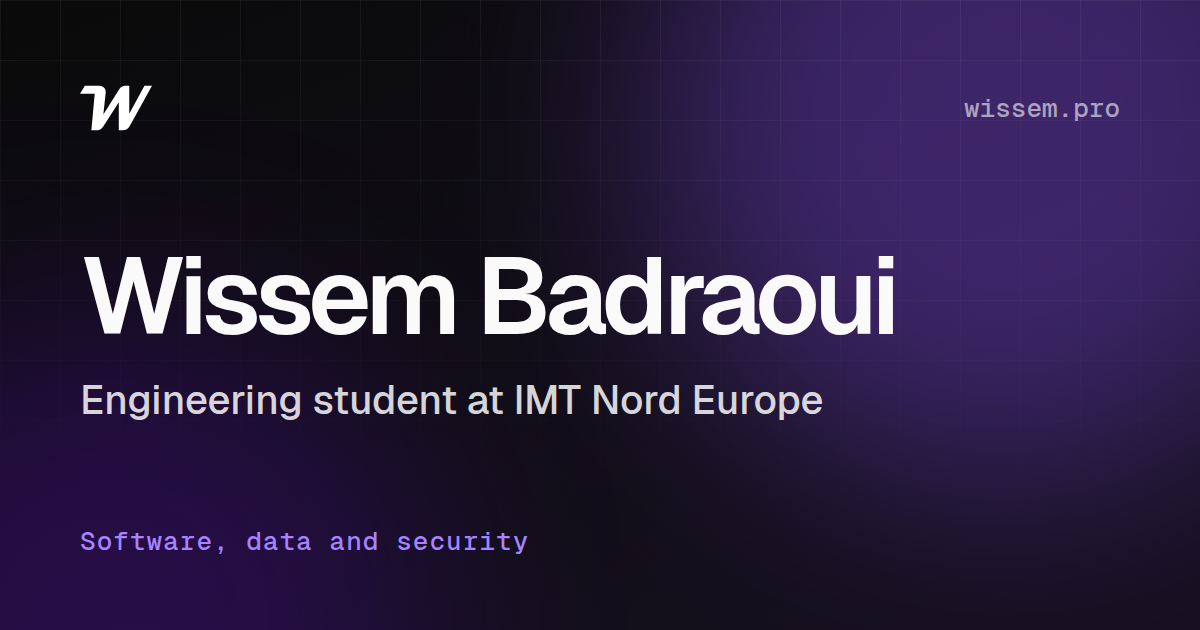
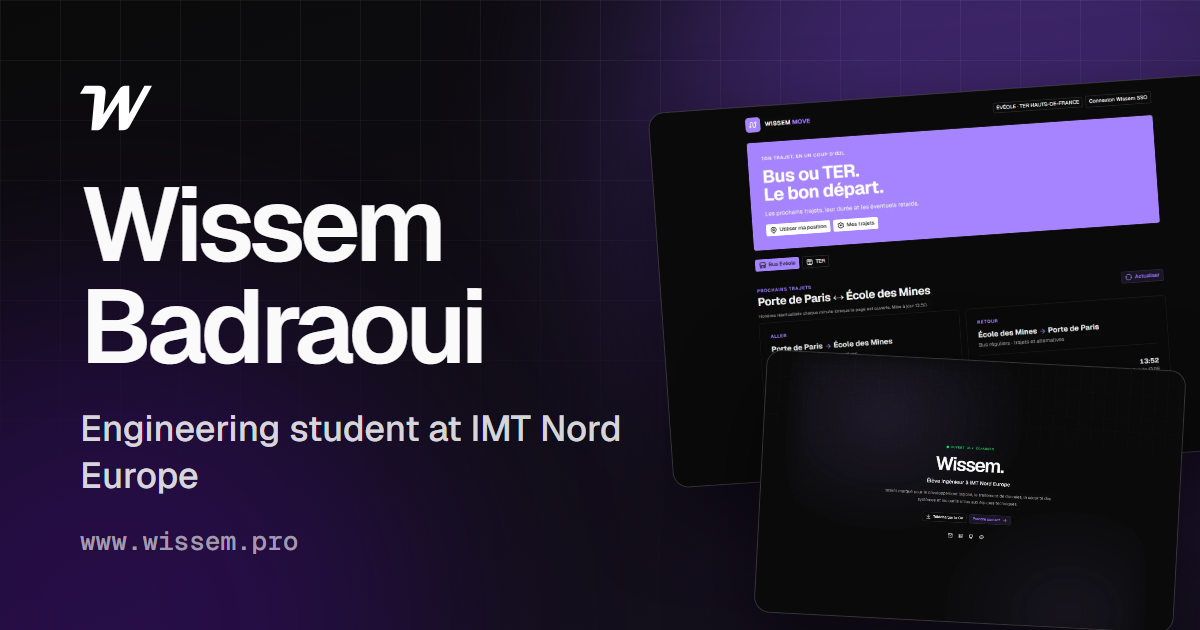
feat: new sharing images with project screenshots and shorter resume copy
Cards with project screenshots and the address, versioned image URLs, image size in the Open Graph tags, shorter resume page copy.

diff --git a/scripts/og.ts b/scripts/og.ts
@@ -27,6 +27,8 @@ function template(locale: keyof typeof contentByLocale) {
   const sans = fontUrl('@fontsource-variable/geist/files/geist-latin-wght-normal.woff2')
   const mono = fontUrl('@fontsource-variable/geist-mono/files/geist-mono-latin-wght-normal.woff2')
   const logo = pathToFileURL(fileURLToPath(new URL('Logo_White.svg', OUTPUT_DIR))).href
+  const shot = (name: string) =>
+    pathToFileURL(fileURLToPath(new URL(`projects/${name}.webp`, OUTPUT_DIR))).href
   return `<!doctype html>
 <html lang="${locale}">
 <meta charset="utf-8">
@@ -59,23 +61,35 @@ function template(locale: keyof typeof contentByLocale) {
     background-size: 60px 60px;
     mask-image: linear-gradient(to bottom, black, transparent 85%);
   }
-  .top, .bottom { position: relative; display: flex; align-items: center; justify-content: space-between; }
+  .text { position: relative; width: 600px; }
   .logo { width: 72px; height: 72px; }
   .url { font: 500 26px "Geist Mono", monospace; color: rgba(250, 250, 250, 0.6); }
-  h1 { position: relative; font-size: 108px; font-weight: 600; letter-spacing: -0.05em; line-height: 1; }
-  .status { position: relative; margin-top: 24px; font-size: 40px; font-weight: 500; color: rgba(250, 250, 250, 0.86); }
-  .focus { font: 500 26px "Geist Mono", monospace; letter-spacing: 0.04em; color: #a684ff; }
+  h1 { font-size: 104px; font-weight: 600; letter-spacing: -0.05em; line-height: 0.98; }
+  .status { margin-top: 28px; font-size: 36px; font-weight: 500; color: rgba(250, 250, 250, 0.86); }
+  .shot {
+    position: absolute;
+    overflow: hidden;
+    border: 1px solid rgba(255, 255, 255, 0.18);
+    border-radius: 16px;
+    background: #0a0a0a;
+    box-shadow: 0 30px 80px rgba(0, 0, 0, 0.55);
+  }
+  .shot img { display: block; width: 100%; }
+  .shot--main { top: 92px; left: 660px; width: 600px; transform: rotate(-4deg); }
+  .shot--side { top: 360px; left: 760px; width: 420px; transform: rotate(3deg); }
 </style>
 <body>
   <div class="glow glow--a"></div>
   <div class="glow glow--b"></div>
   <div class="grid"></div>
-  <div class="top"><img class="logo" src="${logo}" alt=""><span class="url">wissem.pro</span></div>
-  <div>
-    <h1>Wissem Badraoui</h1>
+  <div class="shot shot--main"><img src="${shot('wissem-move')}" alt=""></div>
+  <div class="shot shot--side"><img src="${shot('portfolio')}" alt=""></div>
+  <div class="text"><img class="logo" src="${logo}" alt=""></div>
+  <div class="text">
+    <h1>Wissem<br>Badraoui</h1>
     <p class="status">${profile.status}</p>
   </div>
-  <div class="bottom"><span class="focus">${profile.focus.title}</span></div>
+  <div class="text"><span class="url">www.wissem.pro</span></div>
   <title>${meta.defaultTitle}</title>
 </body>
 </html>`

diff --git a/shared/content/fr.ts b/shared/content/fr.ts
@@ -232,15 +232,14 @@ export const fr = {
     started: 'Le téléchargement du CV a démarré.',
   },
   resumePage: {
-    intro:
-      'Une page, à jour, en français et en anglais. Le fichier est généré à chaque version à partir des sources publiées sur GitHub.',
+    intro: 'CV d’une page, en français et en anglais.',
     previewAlt: 'Aperçu de la première page du CV de Wissem Badraoui',
     downloadFr: 'Télécharger en français',
     downloadEn: 'Télécharger en anglais',
     versionLabel: 'Version',
     updatedLabel: 'Mis à jour le',
     contents: ['Formation', 'Expériences', 'Projets', 'Compétences'],
-    note: 'Cette version publique ne contient ni téléphone ni informations personnelles. Pour une candidature, je transmets la version complète sur demande.',
+    note: 'Version publique, sans téléphone ni coordonnées personnelles. Je transmets la version complète sur demande.',
     contactCta: 'Me contacter',
   },
   links: [

diff --git a/shared/content/en.ts b/shared/content/en.ts
@@ -235,15 +235,14 @@ export const en = {
     started: 'The resume download has started.',
   },
   resumePage: {
-    intro:
-      'One page, kept up to date, in French and English. The file is generated for every version from the sources published on GitHub.',
+    intro: 'One-page resume, in French and English.',
     previewAlt: 'Preview of the first page of the resume of Wissem Badraoui',
     downloadFr: 'Télécharger en français',
     downloadEn: 'Download in English',
     versionLabel: 'Version',
     updatedLabel: 'Updated on',
     contents: ['Education', 'Experience', 'Projects', 'Skills'],
-    note: 'This public version leaves out the phone number and personal details. For an application, I send the full version on request.',
+    note: 'Public version, without phone number or personal details. I can send the full version on request.',
     contactCta: 'Get in touch',
   },
   links: [

diff --git a/app/composables/useSiteSeo.ts b/app/composables/useSiteSeo.ts
@@ -6,8 +6,9 @@ export function useSiteSeo() {
   const { content, locale } = usePortfolioContent()
   const siteUrl = computed(() => normalizePublicSiteUrl(config.public.siteUrl))
   const canonicalUrl = computed(() => toAbsoluteSiteUrl(route.path || '/', siteUrl.value))
-  const socialImageUrl = computed(() =>
-    toAbsoluteSiteUrl(`/images/og-${locale.value}.png`, siteUrl.value),
+  const socialImageUrl = computed(
+    () =>
+      `${toAbsoluteSiteUrl(`/images/og-${locale.value}.png`, siteUrl.value)}?v=${config.public.assetVersion}`,
   )
 
   return { content, locale, siteUrl, canonicalUrl, socialImageUrl }

diff --git a/app/pages/cv.vue b/app/pages/cv.vue
@@ -22,10 +22,10 @@ usePageSeo(
     title: content.value.pages.cv.title,
     description: content.value.pages.cv.description,
     image: {
-      url: toAbsoluteSiteUrl(
+      url: `${toAbsoluteSiteUrl(
         isFrench.value ? '/cv-social.png' : '/en/cv-social.png',
         siteUrl.value,
-      ),
+      )}${release.value?.version ? `?v=${release.value.version}` : ''}`,
       alt: content.value.resumePage.previewAlt,
     },
   })),

diff --git a/app/composables/usePageSeo.ts b/app/composables/usePageSeo.ts
@@ -21,6 +21,9 @@ export function usePageSeo(
     ogType: () => page.value.type || 'website',
     ogImage: () => imageUrl.value,
     ogImageAlt: () => imageAlt.value,
+    ogImageWidth: 1200,
+    ogImageHeight: 630,
+    ogImageType: 'image/png',
     twitterTitle: () => page.value.title,
     twitterDescription: () => page.value.description,
     twitterCard: 'summary_large_image',

diff --git a/e2e/cv.e2e.ts b/e2e/cv.e2e.ts
@@ -18,7 +18,7 @@ test.describe('resume page', () => {
     await page.goto('/en/cv')
     await expect(page.locator('meta[property="og:image"]')).toHaveAttribute(
       'content',
-      /\/en\/cv-social\.png$/,
+      /\/en\/cv-social\.png(\?v=.+)?$/,
     )
     await expect(page.getByRole('link', { name: 'Download in English' })).toHaveAttribute(
       'href',

diff --git a/nuxt.config.ts b/nuxt.config.ts
@@ -1,3 +1,5 @@
+import pkg from './package.json' with { type: 'json' }
+
 const siteUrl = process.env.NUXT_PUBLIC_SITE_URL || 'https://www.wissem.pro'
 
 export default defineNuxtConfig({
@@ -16,6 +18,7 @@ export default defineNuxtConfig({
     telegramChatId: '',
     public: {
       siteUrl,
+      assetVersion: pkg.version,
     },
   },
   i18n: {

diff --git a/CHANGELOG.md b/CHANGELOG.md
@@ -4,6 +4,9 @@ All notable changes to this project are documented here. The format follows [Kee
 
 ## [Unreleased]
 
+- Sharing images: new layout with project screenshots, address `www.wissem.pro` in place of the focus line, versioned image URL so networks refresh their cache, image dimensions in the Open Graph tags.
+- Resume page: shorter introduction and note.
+
 ## [1.0.0] - 2026-10-02
 
 First release under the shared versioning of the wissem.pro projects. Third generation of the site.
